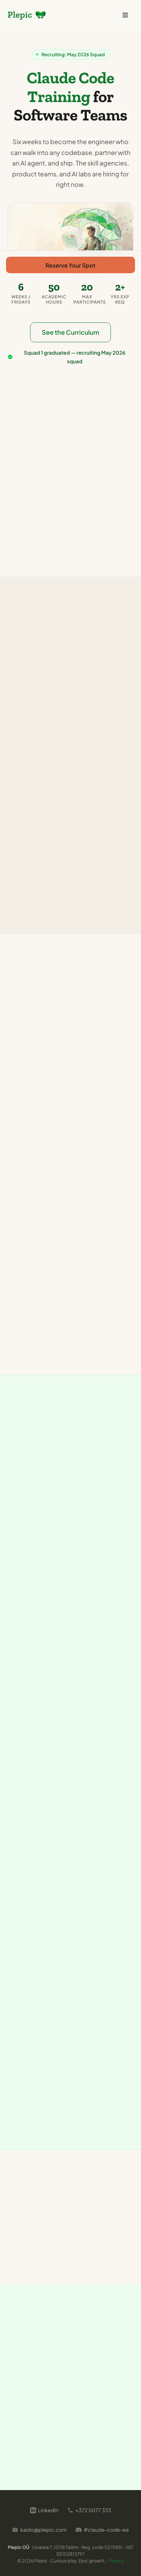
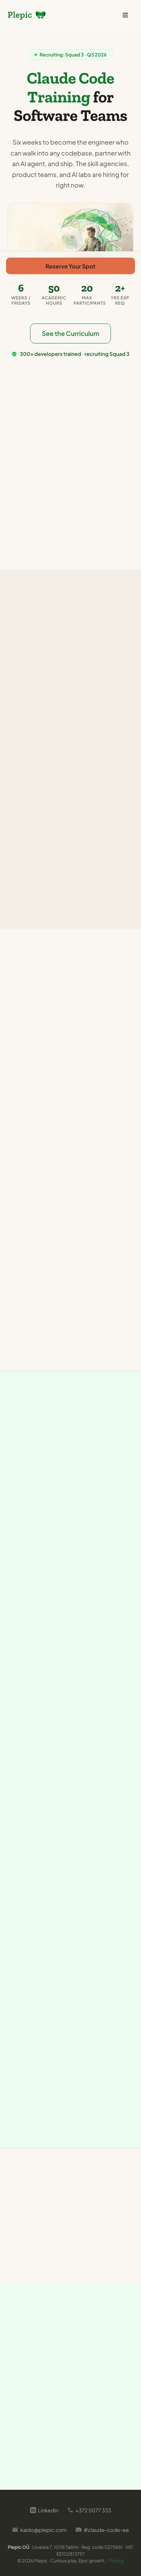
fix(design-system): restore token integrity across production CSS
- retire the --green back-compat alias (pointed at the one green
  forbidden as text on light); all 14 usages now name explicit tokens
- .flow-step-num and .faq-item summary::after switch to --green-brand
  (were vivid green text on white, ~2.3:1)
- remove .agent-hero-text .highlight orange override; /claude-code/ H1
  highlight is brand green like every other page
- replace off-system colors: #d97757 (btn-pulse) -> --accent rgba,
  #22c55e Tailwind green (hero radial, featured pricing shadow) ->
  --green-vivid rgba
- sticky CTA now yields while any other primary CTA is on screen
  (one accent per viewport), same observer pattern on all 4 pages
- refresh training-mobile snapshot (stale on main before this change)
- add critique snapshot (.impeccable/critique/) as polish backlog

Changed region(s): [[0.176, 0.0311, 0.88, 0.1557], [0.2933, 0.0934, 0.44, 0.1557], [0.1173, 0.0934, 0.176, 0.1246]]

diff --git a/css/styles.css b/css/styles.css
@@ -10,7 +10,6 @@
   /* Green system — H=137°, S=73% (vivid S=100%)
      Palette locked 2026-04-01. */
   --green-vivid:   #00c638;   /* S100% L39% — decorative on light. On dark (7.42:1 AAA): headings, highlights, links, labels, inline emphasis. Body text on dark uses off-white #e5e2dc, not vivid. NOT text on light. */
-  --green:         var(--green-vivid); /* back-compat alias */
   --green-brand:   #137b30;   /* S73%  L28% — logo, headings, links. AA on cream/white. */
   --green-dark:    #0d5822;   /* S73%  L20% — body text. AAA on cream/white. */
   --green-light:   #c5f6d3;   /* S73%  L87% — badge fills, borders */
@@ -104,7 +103,7 @@ a:hover {
 }
 
 a:focus-visible {
-  outline: 2px solid var(--green);
+  outline: 2px solid var(--green-vivid);
   outline-offset: 2px;
   border-radius: 2px;
 }
@@ -437,8 +436,8 @@ p:last-child {
 .btn-pulse { animation: btn-pulse 3s ease-in-out infinite; }
 
 @keyframes btn-pulse {
-  0%, 100% { box-shadow: 0 0 0 0 rgba(217, 119, 87, 0.3); }
-  50%      { box-shadow: 0 0 0 8px rgba(217, 119, 87, 0); }
+  0%, 100% { box-shadow: 0 0 0 0 rgba(226, 108, 69, 0.3); }  /* --accent #e26c45 */
+  50%      { box-shadow: 0 0 0 8px rgba(226, 108, 69, 0); }
 }
 
 .btn-group {
@@ -470,7 +469,7 @@ p:last-child {
   content: '';
   width: 6px;
   height: 6px;
-  background: var(--green);
+  background: var(--green-vivid);
   border-radius: 50%;
   animation: pulse 2s ease-in-out infinite;
 }
@@ -661,7 +660,7 @@ p:last-child {
   transform: translate(-50%, -50%);
   width: 200%;
   height: 200%;
-  background: radial-gradient(circle, rgba(34, 197, 94, 0.06) 0%, transparent 60%);
+  background: radial-gradient(circle, rgba(0, 198, 56, 0.06) 0%, transparent 60%);  /* --green-vivid #00c638 */
   pointer-events: none;
   z-index: -1;
 }
@@ -1103,7 +1102,7 @@ p:last-child {
 }
 
 .team-experience svg {
-  color: var(--green);
+  color: var(--green-vivid);
   flex-shrink: 0;
 }
 
@@ -1259,10 +1258,6 @@ p:last-child {
 
 .agent-hero-text h1 {
   margin-bottom: var(--space-lg);
-}
-
-.agent-hero-text .highlight {
-  color: var(--accent);
 }
 
 .agent-hero-description {
@@ -1486,7 +1481,7 @@ p:last-child {
   top: 6px;
   width: 10px;
   height: 10px;
-  background: var(--green);
+  background: var(--green-vivid);
   border-radius: 50%;
   border: 2px solid var(--bg);
 }
@@ -1706,7 +1701,7 @@ p:last-child {
 
 .value-bar-margin {
   flex: 1;
-  background: var(--green);
+  background: var(--green-vivid);
 }
 
 .value-bar-legend {
@@ -1733,7 +1728,7 @@ p:last-child {
 }
 
 .legend-swatch--cost { background: var(--green-brand); }
-.legend-swatch--margin { background: var(--green); }
+.legend-swatch--margin { background: var(--green-vivid); }
 
 .value-vis-caption {
   margin-top: var(--space-md);
@@ -1807,7 +1802,7 @@ p:last-child {
   font-size: 0.8rem;
   font-weight: 700;
   letter-spacing: 0.08em;
-  color: var(--green);
+  color: var(--green-brand);
 }
 
 .flow-step h3 {
@@ -1963,7 +1958,7 @@ p:last-child {
 }
 
 .social-proof-line svg {
-  color: var(--green);
+  color: var(--green-vivid);
 }
 
 /* ========================================
@@ -2128,7 +2123,7 @@ p:last-child {
   top: 8px;
   width: 6px;
   height: 6px;
-  background: var(--green);
+  background: var(--green-vivid);
   border-radius: 50%;
 }
 
@@ -2215,8 +2210,8 @@ p:last-child {
 }
 
 .pricing-card-featured {
-  border-color: var(--green);
-  box-shadow: 0 4px 24px rgba(34, 197, 94, 0.1);
+  border-color: var(--green-vivid);
+  box-shadow: 0 4px 24px rgba(0, 198, 56, 0.1);  /* --green-vivid #00c638 */
   transform: scale(1.02);
 }
 
@@ -2272,7 +2267,7 @@ p:last-child {
   top: 7px;
   width: 6px;
   height: 6px;
-  background: var(--green);
+  background: var(--green-vivid);
   border-radius: 50%;
 }
 
@@ -2442,7 +2437,7 @@ p:last-child {
 .tooltip-trigger {
   position: relative;
   cursor: help;
-  border-bottom: 1.5px dashed var(--green);
+  border-bottom: 1.5px dashed var(--green-vivid);
 }
 
 .tooltip {
@@ -2567,7 +2562,7 @@ p:last-child {
 }
 
 .footer-tagline:hover {
-  color: var(--green);
+  color: var(--green-vivid);
 }
 
 /* ========================================
@@ -3018,7 +3013,7 @@ p:last-child {
 .faq-item summary::after {
   content: '+';
   font-size: 1.25rem;
-  color: var(--green);
+  color: var(--green-brand);
   flex-shrink: 0;
   font-weight: 400;
   line-height: 1;

diff --git a/index.html b/index.html
@@ -668,24 +668,26 @@
       }
     });
 
-    // Sticky CTA visibility
+    // Sticky CTA visibility: yields while the hero or any other primary CTA
+    // is on screen (one accent per viewport)
     const stickyCta = document.getElementById('stickyCta');
     const heroSection = document.querySelector('.hero');
 
     if (stickyCta && heroSection) {
+      const accentTargets = [heroSection, ...document.querySelectorAll('.btn-primary')]
+        .filter(el => !stickyCta.contains(el));
+      const onScreen = new Set();
       const observer = new IntersectionObserver((entries) => {
         entries.forEach(entry => {
-          if (!entry.isIntersecting) {
-            stickyCta.classList.add('visible');
-            document.body.classList.add('has-sticky-cta');
-          } else {
-            stickyCta.classList.remove('visible');
-            document.body.classList.remove('has-sticky-cta');
-          }
+          if (entry.isIntersecting) onScreen.add(entry.target);
+          else onScreen.delete(entry.target);
         });
+        const show = onScreen.size === 0;
+        stickyCta.classList.toggle('visible', show);
+        document.body.classList.toggle('has-sticky-cta', show);
       }, { threshold: 0 });
 
-      observer.observe(heroSection);
+      accentTargets.forEach(target => observer.observe(target));
     }
 
     // Scroll-triggered reveal animations

diff --git a/training/index.html b/training/index.html
@@ -558,24 +558,26 @@
       }
     });
 
-    // Sticky CTA visibility
+    // Sticky CTA visibility: yields while the hero or any other primary CTA
+    // is on screen (one accent per viewport)
     const stickyCta = document.getElementById('stickyCta');
     const heroSection = document.querySelector('.training-hero');
 
     if (stickyCta && heroSection) {
+      const accentTargets = [heroSection, ...document.querySelectorAll('.btn-primary')]
+        .filter(el => !stickyCta.contains(el));
+      const onScreen = new Set();
       const observer = new IntersectionObserver((entries) => {
         entries.forEach(entry => {
-          if (!entry.isIntersecting) {
-            stickyCta.classList.add('visible');
-            document.body.classList.add('has-sticky-cta');
-          } else {
-            stickyCta.classList.remove('visible');
-            document.body.classList.remove('has-sticky-cta');
-          }
+          if (entry.isIntersecting) onScreen.add(entry.target);
+          else onScreen.delete(entry.target);
         });
+        const show = onScreen.size === 0;
+        stickyCta.classList.toggle('visible', show);
+        document.body.classList.toggle('has-sticky-cta', show);
       }, { threshold: 0 });
 
-      observer.observe(heroSection);
+      accentTargets.forEach(target => observer.observe(target));
     }
 
     // Scroll-triggered reveal animations

diff --git a/claude-code/index.html b/claude-code/index.html
@@ -381,23 +381,26 @@
       }
     });
 
+    // Sticky CTA visibility: yields while the hero or any other primary CTA
+    // is on screen (one accent per viewport)
     const stickyCta = document.getElementById('stickyCta');
     const heroSection = document.querySelector('.agent-hero');
 
     if (stickyCta && heroSection) {
+      const accentTargets = [heroSection, ...document.querySelectorAll('.btn-primary')]
+        .filter(el => !stickyCta.contains(el));
+      const onScreen = new Set();
       const observer = new IntersectionObserver((entries) => {
         entries.forEach(entry => {
-          if (!entry.isIntersecting) {
-            stickyCta.classList.add('visible');
-            document.body.classList.add('has-sticky-cta');
-          } else {
-            stickyCta.classList.remove('visible');
-            document.body.classList.remove('has-sticky-cta');
-          }
+          if (entry.isIntersecting) onScreen.add(entry.target);
+          else onScreen.delete(entry.target);
         });
+        const show = onScreen.size === 0;
+        stickyCta.classList.toggle('visible', show);
+        document.body.classList.toggle('has-sticky-cta', show);
       }, { threshold: 0 });
 
-      observer.observe(heroSection);
+      accentTargets.forEach(target => observer.observe(target));
     }
 
     document.documentElement.classList.add('js-reveal');

diff --git a/scopeful/index.html b/scopeful/index.html
@@ -428,23 +428,26 @@
       }
     });
 
+    // Sticky CTA visibility: yields while the hero or any other primary CTA
+    // is on screen (one accent per viewport)
     const stickyCta = document.getElementById('stickyCta');
     const heroSection = document.querySelector('.scopeful-hero');
 
     if (stickyCta && heroSection) {
+      const accentTargets = [heroSection, ...document.querySelectorAll('.btn-primary')]
+        .filter(el => !stickyCta.contains(el));
+      const onScreen = new Set();
       const observer = new IntersectionObserver((entries) => {
         entries.forEach(entry => {
-          if (!entry.isIntersecting) {
-            stickyCta.classList.add('visible');
-            document.body.classList.add('has-sticky-cta');
-          } else {
-            stickyCta.classList.remove('visible');
-            document.body.classList.remove('has-sticky-cta');
-          }
+          if (entry.isIntersecting) onScreen.add(entry.target);
+          else onScreen.delete(entry.target);
         });
+        const show = onScreen.size === 0;
+        stickyCta.classList.toggle('visible', show);
+        document.body.classList.toggle('has-sticky-cta', show);
       }, { threshold: 0 });
 
-      observer.observe(heroSection);
+      accentTargets.forEach(target => observer.observe(target));
     }
 
     document.documentElement.classList.add('js-reveal');

diff --git a/.impeccable/critique/2026-06-10T09-13-46Z__design-system-html.md b/.impeccable/critique/2026-06-10T09-13-46Z__design-system-html.md
@@ -1,0 +1,81 @@
+---
+target: Plepic design system (design-system.html + production pages)
+total_score: 26
+p0_count: 0
+p1_count: 3
+timestamp: 2026-06-10T09-13-46Z
+slug: design-system-html
+---
+# Critique: Plepic Design System (design-system.html + production application)
+
+Date: 2026-06-10. Assessment A: independent design-director agent (browser + source, 32 screenshots). Assessment B: bundled detector, CLI scan of 5 pages + in-page overlay scan of homepage, /training/, /design-system.
+
+## Design Health Score
+
+| # | Heuristic | Score | Key Issue |
+|---|-----------|-------|-----------|
+| 1 | Visibility of System Status | 2 | No current-page indicator: zero aria-current, no active nav style on any page |
+| 2 | Match System / Real World | 4 | Genuinely peer-voiced: loop pseudocode, visible subsidy math, no buzzwords |
+| 3 | User Control and Freedom | 3 | Mobile menu fine; sticky CTA not dismissible; unannounced external calendar jump |
+| 4 | Consistency and Standards | 1 | Orange highlight on /claude-code/ vs green elsewhere; badge-base vs badge-default; Squad vs Cohort; 8.7 vs 8.4; grayscale vs color photos; em-dash rule broken site-wide |
+| 5 | Error Prevention | 3 | Minimal interactive surface; external links flagged in nav only |
+| 6 | Recognition Rather Than Recall | 3 | Price repeated well; "Squad" never defined at first use |
+| 7 | Flexibility and Efficiency | 2 | Skip link exists; no Estonian-language path despite ET brand line and Estonian ICP |
+| 8 | Aesthetic and Minimalist Design | 3 | Calm and distinctive; incentive section half-empty; training hero centers everything |
+| 9 | Error Recovery | 2 | 404 page is bare: no brand moment, minimal wayfinding |
+| 10 | Help and Documentation | 3 | 12-item FAQ with schema.org markup, but flat and ungrouped |
+| **Total** | | **26/40** | **Acceptable: strong identity layer, inconsistently applied system** |
+
+## Anti-Patterns Verdict
+
+**LLM assessment:** Largely escapes the template look. The locked crystalline butterfly (slot-6 asymmetry, DK-B-V facet rule), the cream-and-slab identity, the console easter egg, and honest pre-commercial copy would not come out of a prompt mill. The residue is in rhythm and self-rule violations, not aesthetics: an uppercase mono eyebrow on 100% of sections, hero-metric stat cards, several 50/50 grids against the system's own asymmetry principle, and 26 em-dashes in customer-facing copy on a site whose own design system bans them.
+
+**Deterministic scan (CLI, post side-stripe fix):** 8 findings; the 4 side-stripe hits from the pre-fix scan are gone (shipped in PR #128). Remaining real items: em-dash overuse and aphoristic cadence on the public design-system page. In-page overlay scan added: ghost-card pattern (1px border + 24px shadow) on .pricing-card-featured, .tooltip and .shift-col:hover; tiny text (11.52px homepage, 8.8px spec labels on DS page); body line lengths of 132 to 155 chars on /training/ and the DS page; cramped padding on .faq-list and .curriculum-timeline; repeated section kickers (4 on homepage, 3 on training); sub-AA label contrast on DS swatch chips.
+
+**Off-system colors confirmed in styles.css:** rgba(217,119,87) = #d97757 (Claude/Anthropic orange) in btn-pulse keyframes (l. 440); rgba(34,197,94) = #22c55e (Tailwind green-500) in the hero radial gradient (l. 664) and the featured pricing card shadow (l. 2219). Three foreign colors hiding inside a locked palette.
+
+**False positives dismissed:** single-font CLI hits (fonts load from CSS; overlay confirms Plus Jakarta Sans at ~70%); cream-palette (locked brand identity, identity-preservation wins); numbered markers on /scopeful/ (a real 3-step flow) and on the DS page (document section numbering); white-on-accent button contrast (production .btn-primary uses dark text at ~7:1; the hits were the DS page's own swatch labels); gradient-text and theater-phrase overlay hits (self-detection artifact of the inline injection workaround used to bypass the site CSP).
+
+## Overall Impression
+
+A real brand with a disciplined identity core, undermined by application drift. The system's sharpest rules (one accent per viewport, no vivid as text on light, no em-dashes) are each violated in production, and the public reference page sells a program that no longer exists. The single biggest opportunity: make the homepage END somewhere, and make the system's own rules hold.
+
+## What's Working
+
+1. **The butterfly mark is a genuine, disciplined identity asset.** Locked geometry documented to construction-spec level, deliberate asymmetry, pixelation fix, downloadable assets. Survives 16px to 120px.
+2. **Accessibility as grammar:** two-tier green strategy, live contrast table computed in-page, skip link, reduced-motion guards, zero inline styles in production HTML.
+3. **Prove-don't-claim copy at its best:** agent-vs-chat comparison, visible subsidy arithmetic, "We're building this with agencies, not for them," console easter egg for the audience that opens DevTools.
+
+## Priority Issues
+
+1. **[P1] Locked rules are broken in production.** (a) /claude-code/ H1 highlight renders in orange (styles.css:1264), orange is reserved for CTA/urgency; (b) .flow-step-num on /scopeful/ uses --green (aliases --green-vivid) as text on white, ~2.3:1, the exact thing the system forbids; (c) mobile shows two orange CTAs in one viewport (sticky + hackathon), violating one-accent-per-viewport; (d) three off-system colors (#d97757, #22c55e twice). Why: the system's credibility is its discipline; every exception erodes it, and the ICP notices. Fix: token-integrity pass over styles.css: revert (a) to green, (b) to --green-brand, retire or rename the --green alias, replace foreign rgba values with token-derived ones, add a sticky-CTA yield rule when another .btn-primary is on screen.
+2. **[P1] The homepage has no ending.** It ends at FAQ then a skinny footer; the conversion moment is buried mid-page. /training/ already proves the pattern (closing CTA + "Questions? Talk to Kaido" reassurance). Why: peak-end rule on the highest-traffic page; the external calendar jump carries zero reassurance microcopy. Fix: closing dark CTA section on the homepage (the system documents dark sections but never uses them), with reassurance line ("30 minutes, no prep, no obligation").
+3. **[P1] 26 em-dashes in customer-facing copy** (index 11, training 10, scopeful 3, claude-code 2) against the brand's own locked voice rule. Fix: one copy pass across 4 pages; DS-page internal label separators stay.
+4. **[P2] The public reference page is stale and incomplete.** Hero specimen sells "5 days / Cohort 3 April 2026 / NPS 8.4"; production sells "6 Fridays / Squad 3 Q3 2026 / 8.7 score". Production runs ~14 components the system never documents (stat cards, team cards, FAQ accordion, pricing pair, timeline, flow steps, sticky CTA, footer...) plus a second undocumented badge system (.badge-base). Motion exists in production (hero entrance, reveal, wing-breathe, hover lifts) but the system says nothing about it; wing-breathe keyframes are defined twice. No imagery direction despite the training hero illustration being the best nature-digital asset on the site. Fix: document/extract pass to bring the canon up to production reality.
+5. **[P2] Trust-arithmetic inconsistencies.** 9 trust-bar names vs 6 client logos; "8.7 Avg. Training Score" (no n, no scale) vs FAQ "NPS 8.4/10"; "3x" guarantee vs "3-5x" claim elsewhere; grayscale team photos on home vs color avatars on training. Why: this is precisely what a hype-smelling CTO pattern-matches as inflation. Fix: clarify pass to reconcile numbers and choose one photo treatment.
+
+## Persona Red Flags
+
+**Jordan (first-timer):** "Squad" never defined ("Squad 3: Q3 2026" badge vs FAQ saying "cohorts"); three conversion paths with no stated relationship; silent external jump to Google Calendar; public /design-system contradicts the live offer.
+
+**Casey (mobile, distracted):** double-orange viewport (which is THE action?); sticky CTA label never adapts to context; render-blocking font stylesheet plus ~60KB inline SVG on slow connections; lone EE flag emoji renders inconsistently.
+
+**Riley (stress tester):** 9 names vs 6 logos; 8.7 vs 8.4 metrics; unfalsifiable "3x or we keep working" guarantee vs "3-5x" claim; photo-treatment inconsistency; bare 404.
+
+**Marek (skeptical Estonian dev-agency CTO, 90 seconds):** orange "Estonia's Claude Code experts" headline reads like a banner ad exactly where skepticism peaks; subsidy described without naming Tootukassa; no Estonian-language path despite the ET brand line; no hard technical artifact above the fold (the 49-slide webinar deck and real CLAUDE.md examples sit one or two clicks deep); stat inconsistencies pattern-match as inflation.
+
+## Minor Observations
+
+- FAQ summary focus uses UA-default blue outline, not the system focus ring; the ring itself (vivid on cream) is ~2.25:1 vs the 3:1 non-text guideline.
+- Footer lacks secondary nav links to Training/Scopeful/Claude Code.
+- .mech-viewport / .mech-hud-stats legacy class names from the banned sci-fi era still live in styles.css (~l. 1900+).
+- .btn-secondary duplicates .btn-outline; five redundant .highlight page overrides restate the base rule.
+- The DS page itself: 220 inline style attributes, no jump nav for an ~11,900px page, 8.8px spec labels, clipped neutrals strip at 500px.
+- claude-code/index.html carries the only 3 inline styles in production.
+- section.hero clips a positioned child (overlay finding); harmless today, a trap for future hero additions.
+
+## Questions to Consider
+
+1. Should the public design-system page render living production components (same partials, same data) so drift becomes impossible rather than merely visible?
+2. Your audience smells hype instantly and your strongest proof artifacts are below the fold. What would the homepage look like if the most technical artifact, not the most polished sentence, had to appear above the fold?
+3. "One accent per viewport" is the system's sharpest rule and the mobile sticky CTA breaks it by design. Does the rule need a stacking-context clause, or does the sticky CTA need to yield?